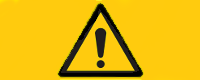
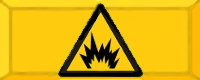
Explosives enhancement

diff --git a/level.py b/level.py
@@ -77,21 +77,31 @@ class Level(gameinstance.GameInstance):
 			self.handleBallPaletteCollision(c)
 		
 		# 2c)
+
+		# hit_bricks: contains (brick, collision type) information.
+		# to_delete: list of bricks to be removed.
+		# scored: number of hits that should increase the score.
 		hit_bricks, to_delete = [], []
+		scored = 0
+
 		for i in self.bricks:
 			c = circleBoxCollision(bpos, r, i.rect())
 			if c == NO_COLLISION:
 				continue
 
+			# Collision ball-brick confirmed.
 			hit_bricks.append( (i, c) )
 
 			prev_type = i.brick_type
 			i.handleCollision()
 			if i.brick_type == Brick.EMPTY:
 				if prev_type == Brick.EXPLOSIVE:
-					for n in self.neighboursOf(i):
-						to_delete.append(n)
-				to_delete.append(i)
+					ei = set(self.explosionImpact(i))
+					to_delete += ei
+					scored += len(ei)
+				else:
+					to_delete.append(i)
+					scored += 1
 			
 			if len(hit_bricks) > 1:
 				break
@@ -106,9 +116,9 @@ class Level(gameinstance.GameInstance):
 		else:
 			self.ball.handleCollision(CORNER_NEG_COLLISION)
 
-		for i, j in hit_bricks:
-			if i.brick_type != Brick.INVULNERABLE:
-				self.score += self.Score.BRICK_HIT
+		#for i, j in hit_bricks:
+		#	if i.brick_type != Brick.INVULNERABLE:
+		self.score += self.Score.BRICK_HIT * scored
 
 		#Spawning a bonus.
 		for i in to_delete:
@@ -150,7 +160,7 @@ class Level(gameinstance.GameInstance):
 
 		# If the ball somehow escaped, restart the game.
 		dist = (self.ball.position - self.palette.position).length()
-		if dist > 1000:
+		if dist > 5000:
 			self.performDeath()
 
 	def handleEvent(self, e):
@@ -198,6 +208,7 @@ class Level(gameinstance.GameInstance):
 
 	def handleBonus(self, bonus_type):
 		ss = self.Score.PICKUP
+		prev_palette_width = Palette.SIZE.x
 		
 		if bonus_type == Bonus.EXTRA_LIFE:
 			ss += self.Score.GOOD_PICKUP
@@ -229,6 +240,11 @@ class Level(gameinstance.GameInstance):
 			self.catch_n_hold = True
 		
 		self.score += ss
+
+		# If ball is tied to the palette, adjust ball's position.
+		if prev_palette_width != Palette.SIZE.x and self.ball.binding:
+			a = self.ball.position.x - self.palette.position.x
+			self.ball.position.x = self.palette.position.x + Palette.SIZE.x / prev_palette_width * a
 	
 	def handleBallPaletteCollision(self, collision_type):
 		if self.skyfall:
@@ -301,8 +317,16 @@ class Level(gameinstance.GameInstance):
 			elif i.position.x in (x-1, x+1) and i.position.y in (y-1, y, y+1):
 				result.append(i)
 				continue
-		for n in result:
-			print('{} '.format(n.position), end='')
+		return result
+
+	def explosionImpact(self, brick, explosives=[]):
+		if explosives == []:
+			explosives = [brick]
+		neighbours = self.neighboursOf(brick)
+		result = neighbours[:]
+		for x in [y for y in neighbours if y.brick_type == Brick.EXPLOSIVE and y not in explosives]:
+			explosives.append(x)
+			result += self.explosionImpact(x, explosives)
 		return result
 
 	def restart(self):

diff --git a/gameobject.py b/gameobject.py
@@ -208,7 +208,7 @@ class Bonus(PhysicalObject):
 		TECH_SUPPORT     : Type(0, (BONUS_SIZE, 0, BONUS_SIZE, BONUS_SIZE)),
 		WIDER_PALETTE    : Type(30, (2*BONUS_SIZE, 0, BONUS_SIZE, BONUS_SIZE)),
 		NARROWER_PALETTE : Type(30, (3*BONUS_SIZE, 0, BONUS_SIZE, BONUS_SIZE)),
-		SUPER_SPEED      : Type(20, (4*BONUS_SIZE, 0, BONUS_SIZE, BONUS_SIZE)),
+		SUPER_SPEED      : Type(12, (4*BONUS_SIZE, 0, BONUS_SIZE, BONUS_SIZE)),
 		STRIKE_THROUGH   : Type(0, (0, BONUS_SIZE, BONUS_SIZE, BONUS_SIZE)),
 		FIREBALL         : Type(0, (BONUS_SIZE, BONUS_SIZE, BONUS_SIZE, BONUS_SIZE)),
 		DEATH            : Type(20, (2*BONUS_SIZE, BONUS_SIZE, BONUS_SIZE, BONUS_SIZE)),
